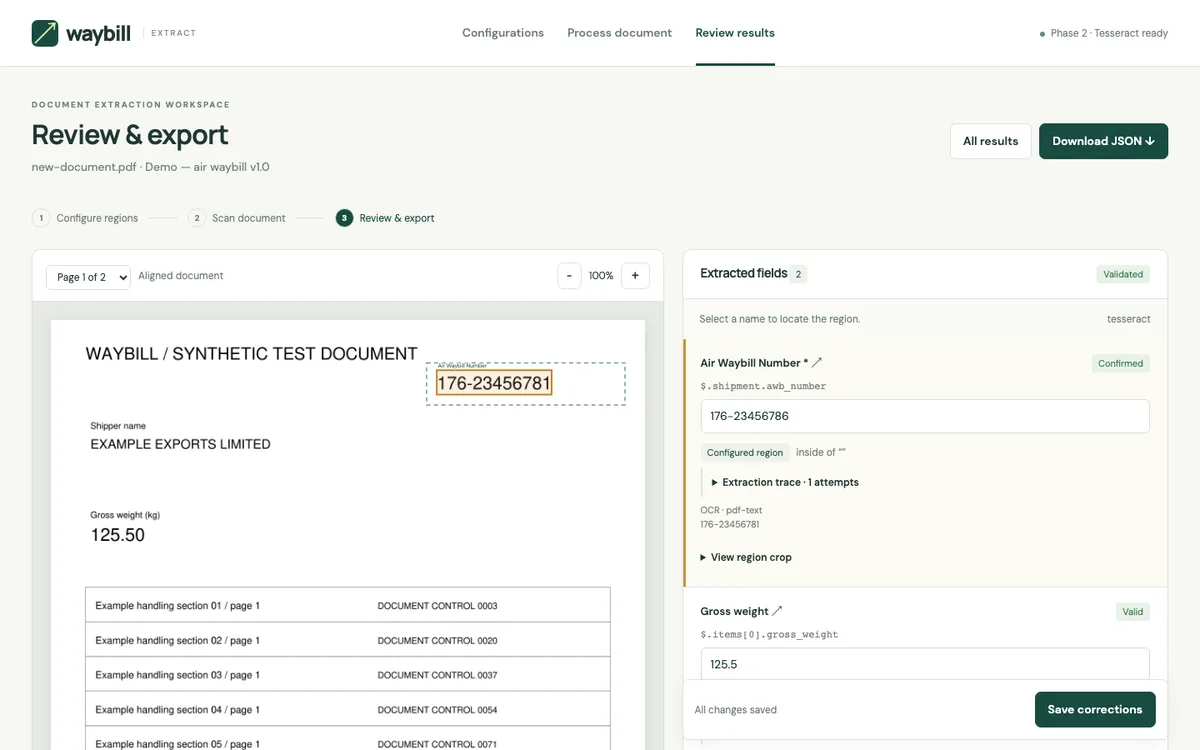
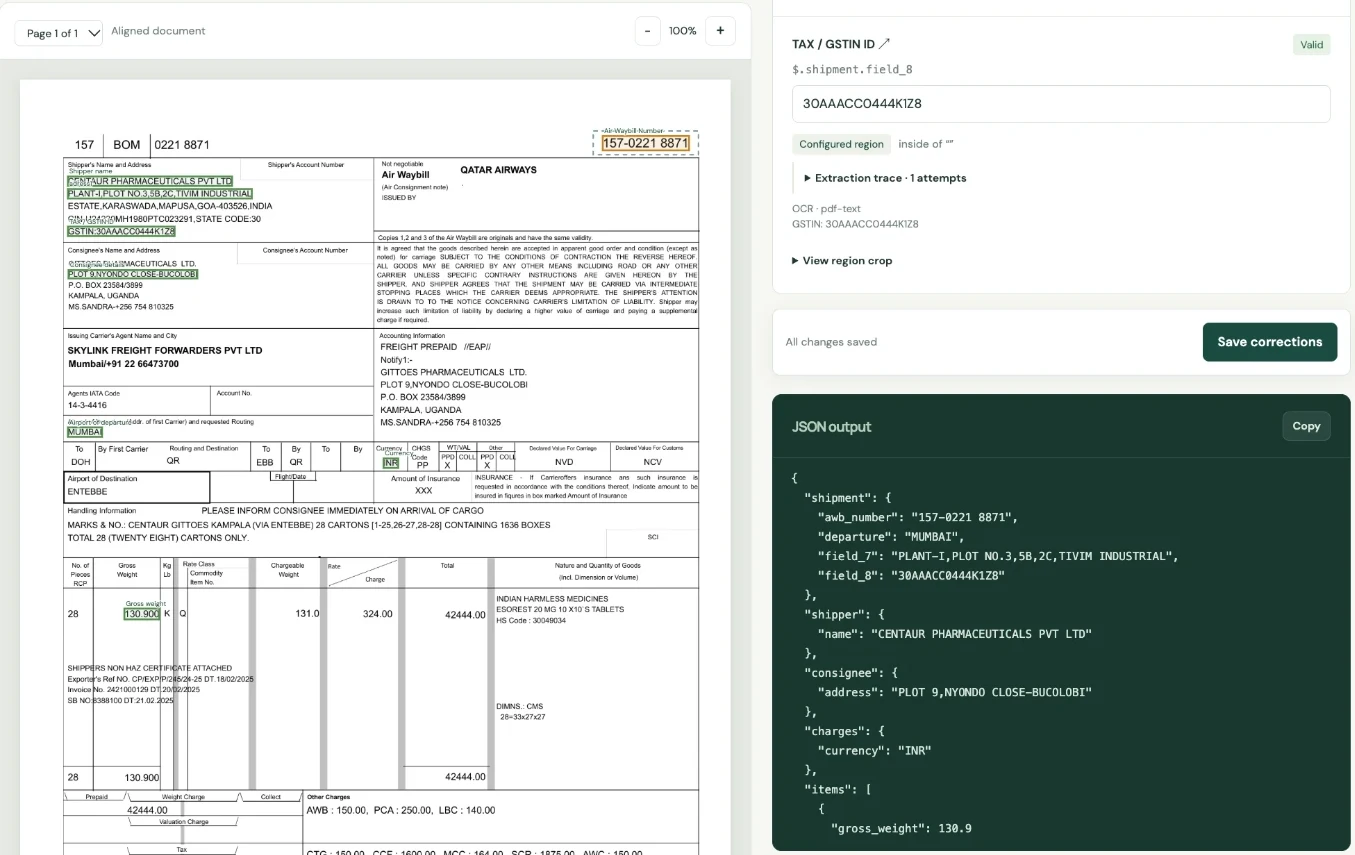
Use new Airway Bill OCR screenshot

diff --git a/index.html b/index.html
@@ -306,7 +306,7 @@
       </a>
       <a class="card reveal" href="https://github.com/AryanBhimani15/OCR" target="_blank" rel="noopener">
         <span class="arrow">↗</span>
-        <div class="thumb"><img src="img/ocr.webp" alt="Waybill OCR review screen showing extracted, validated fields next to the document" loading="lazy" width="1200" height="750"><span class="cap">// pdf → validated json</span></div>
+        <div class="thumb"><img src="img/ocr.webp" alt="Waybill OCR review screen with detected regions on an airway bill and the extracted JSON output" loading="lazy" width="1355" height="855"><span class="cap">// pdf → validated json</span></div>
         <div class="top"><h3>Airway Bill OCR</h3><span class="yr">document ai</span></div>
         <p>Local-first pipeline that turns airway-bill PDFs and images into structured, validated JSON. Layout alignment, ambiguity flags and browser correction, no paid cloud-AI APIs.</p>
         <div class="tags"><span>FastAPI</span><span>OpenCV</span><span>Tesseract</span><span>PyMuPDF</span></div>
